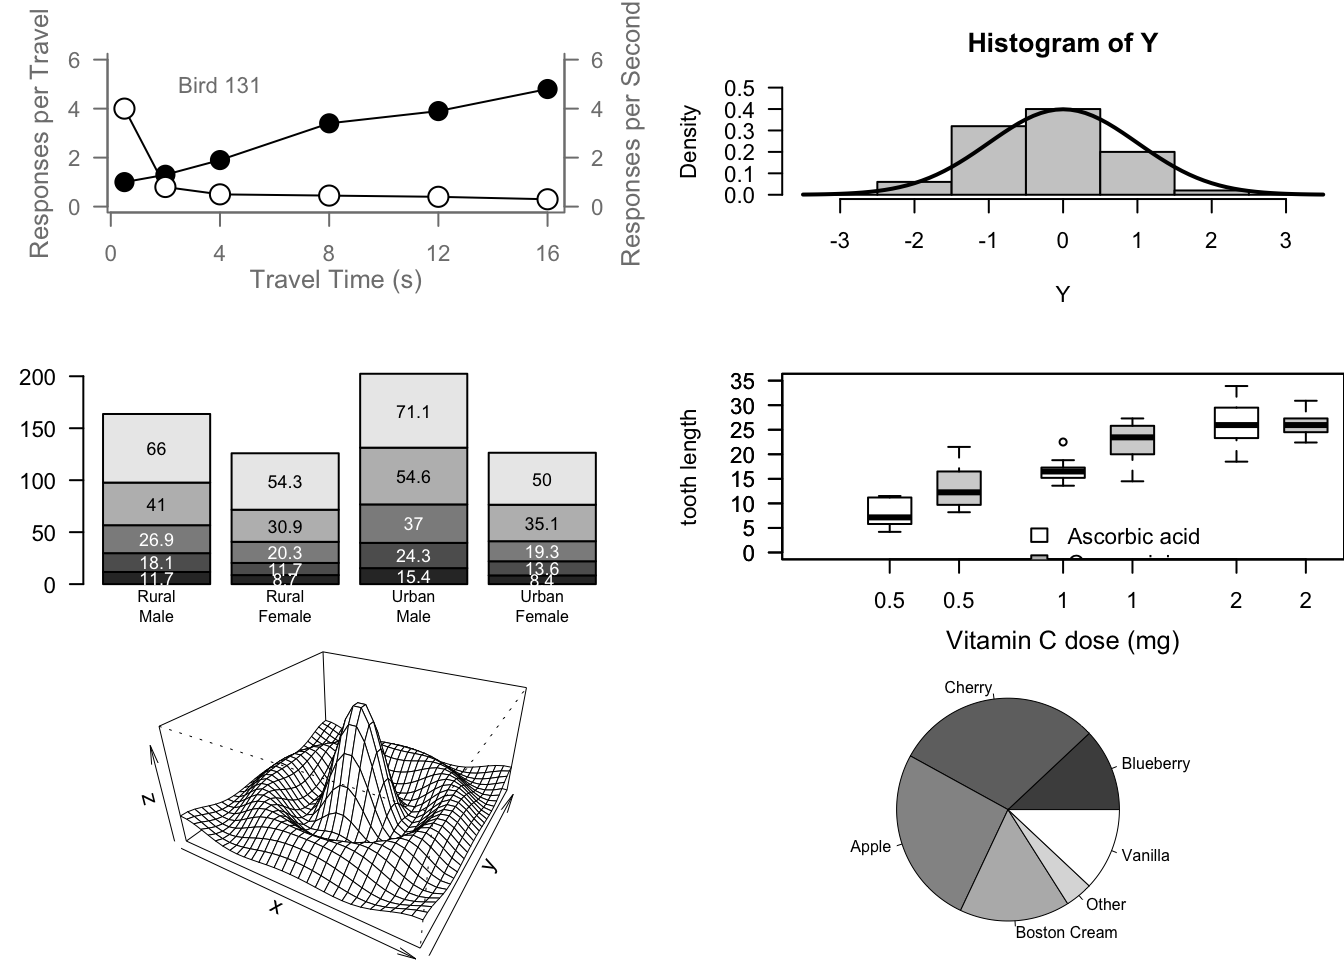
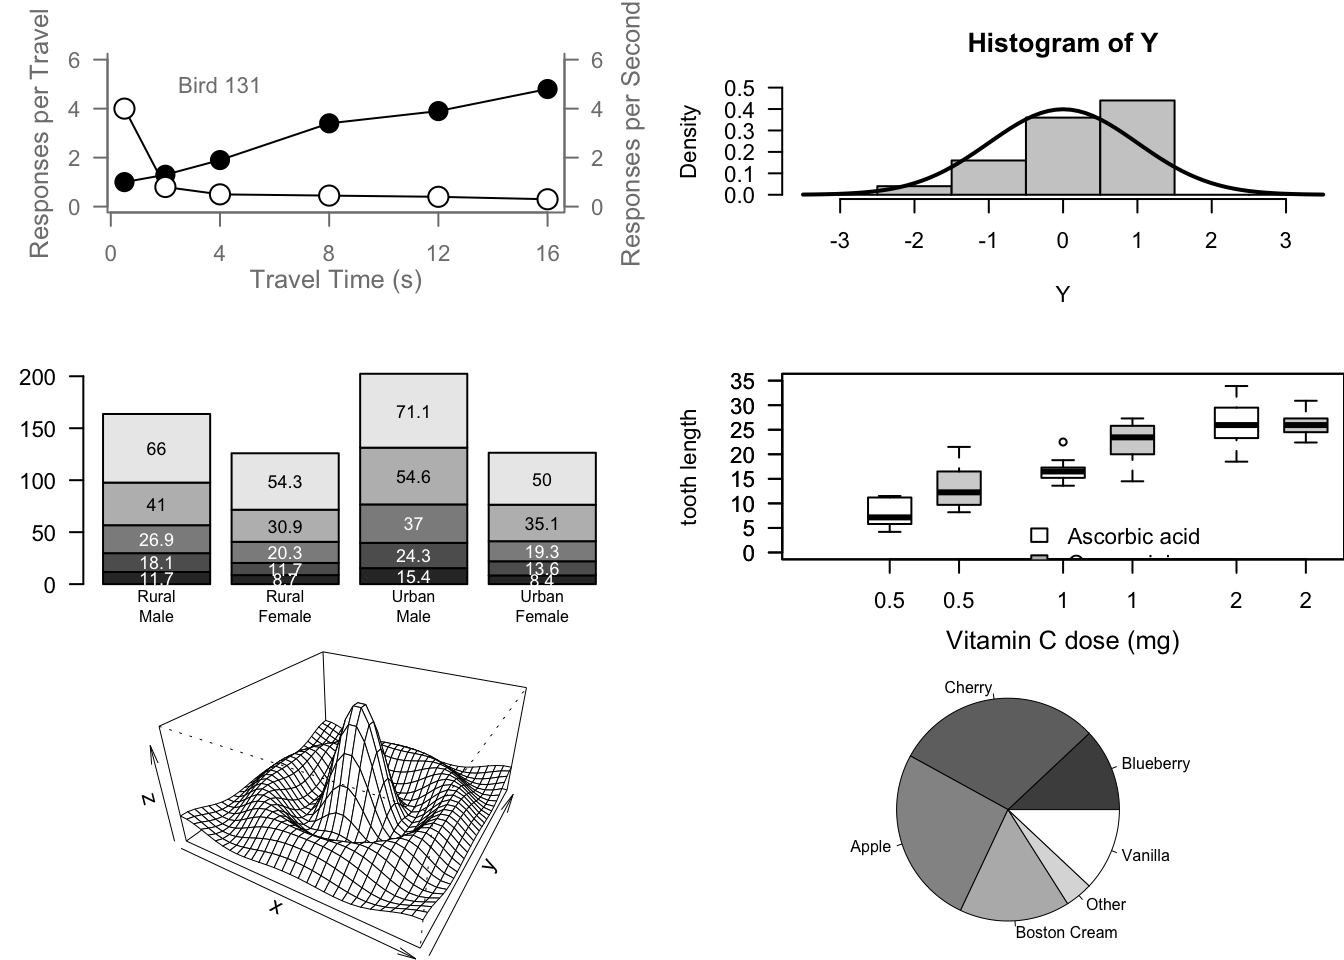
assignment 4 hackathon chage chart 2

Changed region(s): [[0.6562, 0.0938, 0.875, 0.2188], [0.875, 0.1875, 0.9062, 0.2188]]

diff --git a/docs/hackathon.html b/docs/hackathon.html
@@ -296,34 +296,20 @@ Attaching package: 'dplyr'</code></pre>
 </div>
 <div class="cell">
 <div class="code-copy-outer-scaffold"><div class="sourceCode cell-code" id="cb6"><pre class="sourceCode r code-with-copy"><code class="sourceCode r"><span id="cb6-1"><a href="#cb6-1" aria-hidden="true" tabindex="-1"></a><span class="fu">library</span>(ggplot2)</span>
-<span id="cb6-2"><a href="#cb6-2" aria-hidden="true" tabindex="-1"></a><span class="fu">library</span>(dplyr)</span>
-<span id="cb6-3"><a href="#cb6-3" aria-hidden="true" tabindex="-1"></a><span class="fu">data</span>(<span class="st">"iris"</span>)</span>
-<span id="cb6-4"><a href="#cb6-4" aria-hidden="true" tabindex="-1"></a>iris_summary <span class="ot">&lt;-</span> <span class="fu">aggregate</span>(<span class="fu">cbind</span>(Sepal.Width, Petal.Length) <span class="sc">~</span> Species, <span class="at">data =</span> iris, <span class="at">FUN =</span> mean)</span>
-<span id="cb6-5"><a href="#cb6-5" aria-hidden="true" tabindex="-1"></a></span>
-<span id="cb6-6"><a href="#cb6-6" aria-hidden="true" tabindex="-1"></a>iris_summary <span class="ot">&lt;-</span> iris_summary <span class="sc">%&gt;%</span></span>
-<span id="cb6-7"><a href="#cb6-7" aria-hidden="true" tabindex="-1"></a>  <span class="fu">mutate</span>(<span class="at">NormWidth =</span> (Sepal.Width <span class="sc">/</span> <span class="fu">sum</span>(Sepal.Width))<span class="sc">^</span><span class="dv">3</span> <span class="sc">*</span> <span class="dv">10</span>)</span>
-<span id="cb6-8"><a href="#cb6-8" aria-hidden="true" tabindex="-1"></a></span>
-<span id="cb6-9"><a href="#cb6-9" aria-hidden="true" tabindex="-1"></a><span class="fu">ggplot</span>(iris_summary, <span class="fu">aes</span>(<span class="at">x =</span> Species, <span class="at">y =</span> Petal.Length)) <span class="sc">+</span></span>
-<span id="cb6-10"><a href="#cb6-10" aria-hidden="true" tabindex="-1"></a>  <span class="fu">geom_col</span>(<span class="fu">aes</span>(<span class="at">width =</span> NormWidth, <span class="at">fill =</span> Species), <span class="at">color =</span> <span class="st">"black"</span>, <span class="at">linewidth =</span> <span class="fl">0.3</span>) <span class="sc">+</span></span>
-<span id="cb6-11"><a href="#cb6-11" aria-hidden="true" tabindex="-1"></a>  <span class="fu">geom_text</span>(<span class="fu">aes</span>(<span class="at">label =</span> <span class="fu">round</span>(Petal.Length, <span class="dv">2</span>)), <span class="at">vjust =</span> <span class="sc">-</span><span class="fl">0.5</span>, <span class="at">size =</span> <span class="dv">4</span>, <span class="at">family =</span> <span class="st">"mono"</span>) <span class="sc">+</span></span>
-<span id="cb6-12"><a href="#cb6-12" aria-hidden="true" tabindex="-1"></a>  <span class="fu">geom_text</span>(<span class="fu">aes</span>(<span class="at">label =</span> <span class="fu">round</span>(Sepal.Width, <span class="dv">2</span>)), <span class="at">vjust =</span> <span class="fl">1.5</span>, <span class="at">size =</span> <span class="fl">3.5</span>, <span class="at">family =</span> <span class="st">"mono"</span>, <span class="at">color =</span> <span class="st">"white"</span>) <span class="sc">+</span></span>
-<span id="cb6-13"><a href="#cb6-13" aria-hidden="true" tabindex="-1"></a>  <span class="fu">scale_fill_manual</span>(<span class="at">values =</span> <span class="fu">c</span>(</span>
-<span id="cb6-14"><a href="#cb6-14" aria-hidden="true" tabindex="-1"></a>    <span class="at">setosa =</span> <span class="st">"#1f77b4"</span>,</span>
-<span id="cb6-15"><a href="#cb6-15" aria-hidden="true" tabindex="-1"></a>    <span class="at">versicolor =</span> <span class="st">"#4fa9dc"</span>,</span>
-<span id="cb6-16"><a href="#cb6-16" aria-hidden="true" tabindex="-1"></a>    <span class="at">virginica =</span> <span class="st">"#a6cee3"</span></span>
-<span id="cb6-17"><a href="#cb6-17" aria-hidden="true" tabindex="-1"></a>  )) <span class="sc">+</span></span>
-<span id="cb6-18"><a href="#cb6-18" aria-hidden="true" tabindex="-1"></a>  <span class="fu">labs</span>(</span>
-<span id="cb6-19"><a href="#cb6-19" aria-hidden="true" tabindex="-1"></a>    <span class="at">title =</span> <span class="st">"Variable-Width Column Chart: Iris Species"</span>,</span>
-<span id="cb6-20"><a href="#cb6-20" aria-hidden="true" tabindex="-1"></a>    <span class="at">subtitle =</span> <span class="st">"Bar height = Avg. Petal Length, Bar width = (normalized Avg. Sepal Width)³ × 10"</span>,</span>
-<span id="cb6-21"><a href="#cb6-21" aria-hidden="true" tabindex="-1"></a>    <span class="at">x =</span> <span class="st">"Species (bar width ∝ cubed mean Sepal Width)"</span>,</span>
-<span id="cb6-22"><a href="#cb6-22" aria-hidden="true" tabindex="-1"></a>    <span class="at">y =</span> <span class="st">"Average Petal Length"</span></span>
-<span id="cb6-23"><a href="#cb6-23" aria-hidden="true" tabindex="-1"></a>  ) <span class="sc">+</span></span>
-<span id="cb6-24"><a href="#cb6-24" aria-hidden="true" tabindex="-1"></a>  <span class="fu">theme_classic</span>(<span class="at">base_family =</span> <span class="st">"mono"</span>) <span class="sc">+</span></span>
-<span id="cb6-25"><a href="#cb6-25" aria-hidden="true" tabindex="-1"></a>  <span class="fu">theme</span>(</span>
-<span id="cb6-26"><a href="#cb6-26" aria-hidden="true" tabindex="-1"></a>    <span class="at">legend.position =</span> <span class="st">"none"</span>,</span>
-<span id="cb6-27"><a href="#cb6-27" aria-hidden="true" tabindex="-1"></a>    <span class="at">plot.title =</span> <span class="fu">element_text</span>(<span class="at">size =</span> <span class="dv">12</span>),</span>
-<span id="cb6-28"><a href="#cb6-28" aria-hidden="true" tabindex="-1"></a>    <span class="at">plot.subtitle =</span> <span class="fu">element_text</span>(<span class="at">size =</span> <span class="dv">10</span>)</span>
-<span id="cb6-29"><a href="#cb6-29" aria-hidden="true" tabindex="-1"></a>  )</span></code></pre></div><button title="Copy to Clipboard" class="code-copy-button"><i class="bi"></i></button></div>
+<span id="cb6-2"><a href="#cb6-2" aria-hidden="true" tabindex="-1"></a>d <span class="ot">&lt;-</span> <span class="fu">reshape</span>(<span class="fu">aggregate</span>(<span class="fu">cbind</span>(Sepal.Length, Sepal.Width, Petal.Length, Petal.Width) <span class="sc">~</span> Species, iris, mean),</span>
+<span id="cb6-3"><a href="#cb6-3" aria-hidden="true" tabindex="-1"></a>             <span class="fu">list</span>(<span class="dv">2</span><span class="sc">:</span><span class="dv">5</span>), <span class="at">v.names =</span> <span class="st">"Value"</span>, <span class="at">timevar =</span> <span class="st">"Feature"</span>, <span class="at">times =</span> <span class="fu">names</span>(iris)[<span class="dv">1</span><span class="sc">:</span><span class="dv">4</span>], <span class="at">direction =</span> <span class="st">"long"</span>)</span>
+<span id="cb6-4"><a href="#cb6-4" aria-hidden="true" tabindex="-1"></a><span class="fu">ggplot</span>(d, <span class="fu">aes</span>(<span class="at">x =</span> Species, <span class="at">y =</span> Value, <span class="at">fill =</span> Feature)) <span class="sc">+</span></span>
+<span id="cb6-5"><a href="#cb6-5" aria-hidden="true" tabindex="-1"></a>  <span class="fu">geom_col</span>(<span class="at">width =</span> <span class="fl">0.6</span>) <span class="sc">+</span></span>
+<span id="cb6-6"><a href="#cb6-6" aria-hidden="true" tabindex="-1"></a>  <span class="fu">geom_text</span>(<span class="fu">aes</span>(<span class="at">label =</span> <span class="fu">round</span>(Value, <span class="dv">2</span>)), <span class="at">vjust =</span> <span class="sc">-</span><span class="fl">1.2</span>, <span class="at">size =</span> <span class="fl">3.5</span>, <span class="at">family =</span> <span class="st">"mono"</span>, <span class="at">fontface =</span> <span class="st">"bold"</span>, <span class="at">color =</span> <span class="st">"black"</span>) <span class="sc">+</span></span>
+<span id="cb6-7"><a href="#cb6-7" aria-hidden="true" tabindex="-1"></a>  <span class="fu">facet_grid</span>(Feature <span class="sc">~</span> .) <span class="sc">+</span></span>
+<span id="cb6-8"><a href="#cb6-8" aria-hidden="true" tabindex="-1"></a>  <span class="fu">scale_fill_manual</span>(<span class="at">values =</span> <span class="fu">c</span>(<span class="at">Sepal.Length =</span> <span class="st">"#1f77b4"</span>, <span class="at">Sepal.Width =</span> <span class="st">"#4fa9dc"</span>, <span class="at">Petal.Length =</span> <span class="st">"#a6cee3"</span>, <span class="at">Petal.Width =</span> <span class="st">"#c6dbef"</span>)) <span class="sc">+</span></span>
+<span id="cb6-9"><a href="#cb6-9" aria-hidden="true" tabindex="-1"></a>  <span class="fu">labs</span>(<span class="at">title =</span> <span class="st">"Chart #2: Matrix Table with Embedded Bar Charts — Iris Feature Averages"</span>, <span class="at">x =</span> <span class="st">"Species"</span>, <span class="at">y =</span> <span class="st">"Average Value"</span>, <span class="at">fill =</span> <span class="st">"Feature"</span>) <span class="sc">+</span></span>
+<span id="cb6-10"><a href="#cb6-10" aria-hidden="true" tabindex="-1"></a>  <span class="fu">theme_minimal</span>(<span class="at">base_family =</span> <span class="st">"sans"</span>) <span class="sc">+</span></span>
+<span id="cb6-11"><a href="#cb6-11" aria-hidden="true" tabindex="-1"></a>  <span class="fu">theme</span>(<span class="at">strip.text =</span> <span class="fu">element_text</span>(<span class="at">face =</span> <span class="st">"bold"</span>, <span class="at">size =</span> <span class="fl">5.5</span>), <span class="at">axis.text.x =</span> <span class="fu">element_text</span>(<span class="at">face =</span> <span class="st">"bold"</span>, <span class="at">size =</span> <span class="dv">10</span>),</span>
+<span id="cb6-12"><a href="#cb6-12" aria-hidden="true" tabindex="-1"></a>        <span class="at">axis.title.x =</span> <span class="fu">element_text</span>(<span class="at">face =</span> <span class="st">"bold"</span>), <span class="at">axis.title.y =</span> <span class="fu">element_text</span>(<span class="at">face =</span> <span class="st">"bold"</span>),</span>
+<span id="cb6-13"><a href="#cb6-13" aria-hidden="true" tabindex="-1"></a>        <span class="at">panel.grid.major =</span> <span class="fu">element_line</span>(<span class="at">color =</span> <span class="st">"gray85"</span>), <span class="at">panel.grid.minor =</span> <span class="fu">element_blank</span>(),</span>
+<span id="cb6-14"><a href="#cb6-14" aria-hidden="true" tabindex="-1"></a>        <span class="at">panel.spacing.y =</span> <span class="fu">unit</span>(<span class="fl">1.2</span>, <span class="st">"lines"</span>), <span class="at">plot.margin =</span> <span class="fu">margin</span>(<span class="dv">10</span>, <span class="dv">10</span>, <span class="dv">10</span>, <span class="dv">10</span>),</span>
+<span id="cb6-15"><a href="#cb6-15" aria-hidden="true" tabindex="-1"></a>        <span class="at">legend.position =</span> <span class="st">"top"</span>, <span class="at">legend.title =</span> <span class="fu">element_text</span>(<span class="at">face =</span> <span class="st">"bold"</span>), <span class="at">legend.text =</span> <span class="fu">element_text</span>(<span class="at">size =</span> <span class="dv">10</span>))</span></code></pre></div><button title="Copy to Clipboard" class="code-copy-button"><i class="bi"></i></button></div>
 <div class="cell-output-display">
 <div>
 <figure class="figure">
